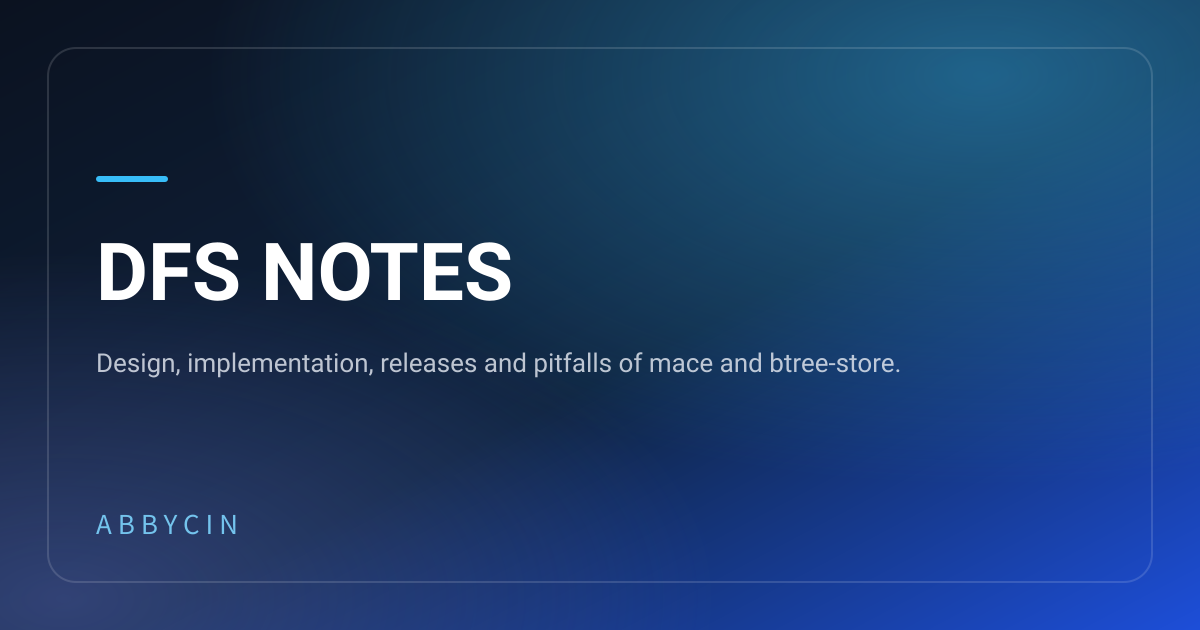
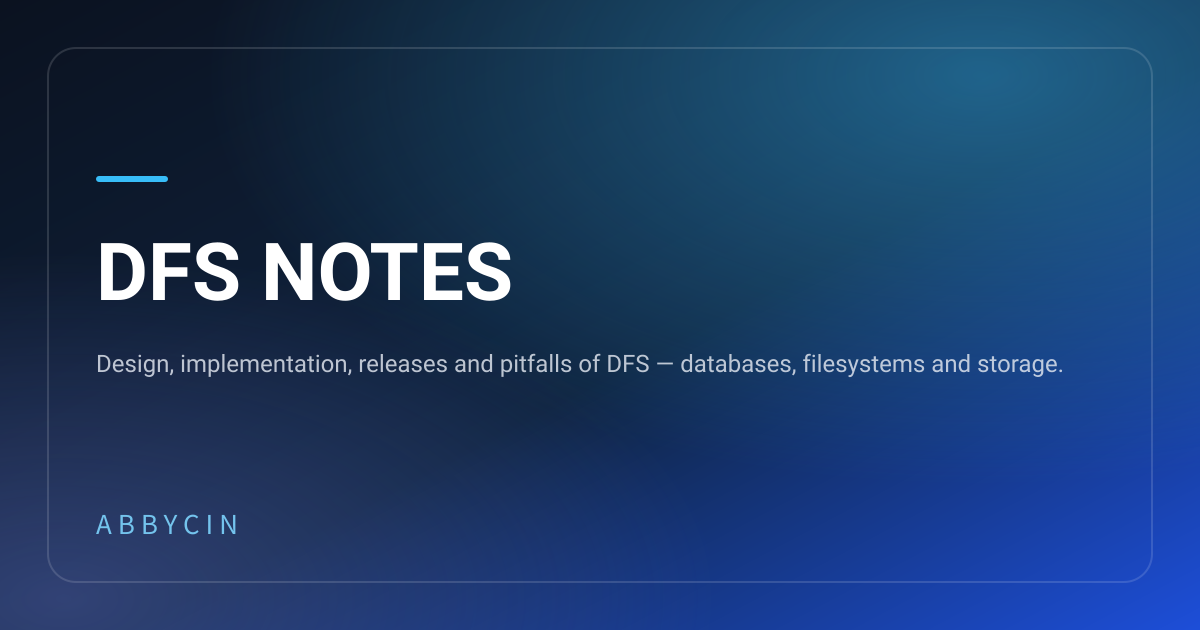
update landing page

Changed region(s): [[0.0925, 0.5429, 0.8942, 0.6032]]

diff --git a/astro-paper.config.ts b/astro-paper.config.ts
@@ -5,7 +5,7 @@ export default defineAstroPaperConfig({
     // SITE_URL 环境变量优先（GitHub Pages workflow 注入），否则用本地默认值
     url: process.env.SITE_URL || "https://db.o2c.fun",
     title: "dfs-notes",
-    description: "mace 与 btree-store 的设计与实现、版本发布与踩坑记录",
+    description: "DFS（Database、Filesystem、Storage）的设计与实现、版本发布与踩坑记录",
     author: "AbbyCin",
     profile: "https://github.com/abbycin",
     ogImage: "default-og.jpg",

diff --git a/src/i18n/lang/en.ts b/src/i18n/lang/en.ts
@@ -74,6 +74,6 @@ export default {
   },
   site: {
     title: "DFS NOTES",
-    description: "Design, implementation, releases and pitfalls of mace and btree-store.",
+    description: "Design, implementation, releases and pitfalls of DFS — databases, filesystems and storage.",
   },
 } satisfies UIStrings;

diff --git a/src/i18n/lang/zh.ts b/src/i18n/lang/zh.ts
@@ -74,6 +74,6 @@ export default {
   },
   site: {
     title: "DFS NOTES",
-    description: "mace 与 btree-store 的设计与实现、版本发布与踩坑记录",
+    description: "DFS（Database、Filesystem、Storage）的设计与实现、版本发布与踩坑记录",
   },
 } satisfies UIStrings;
